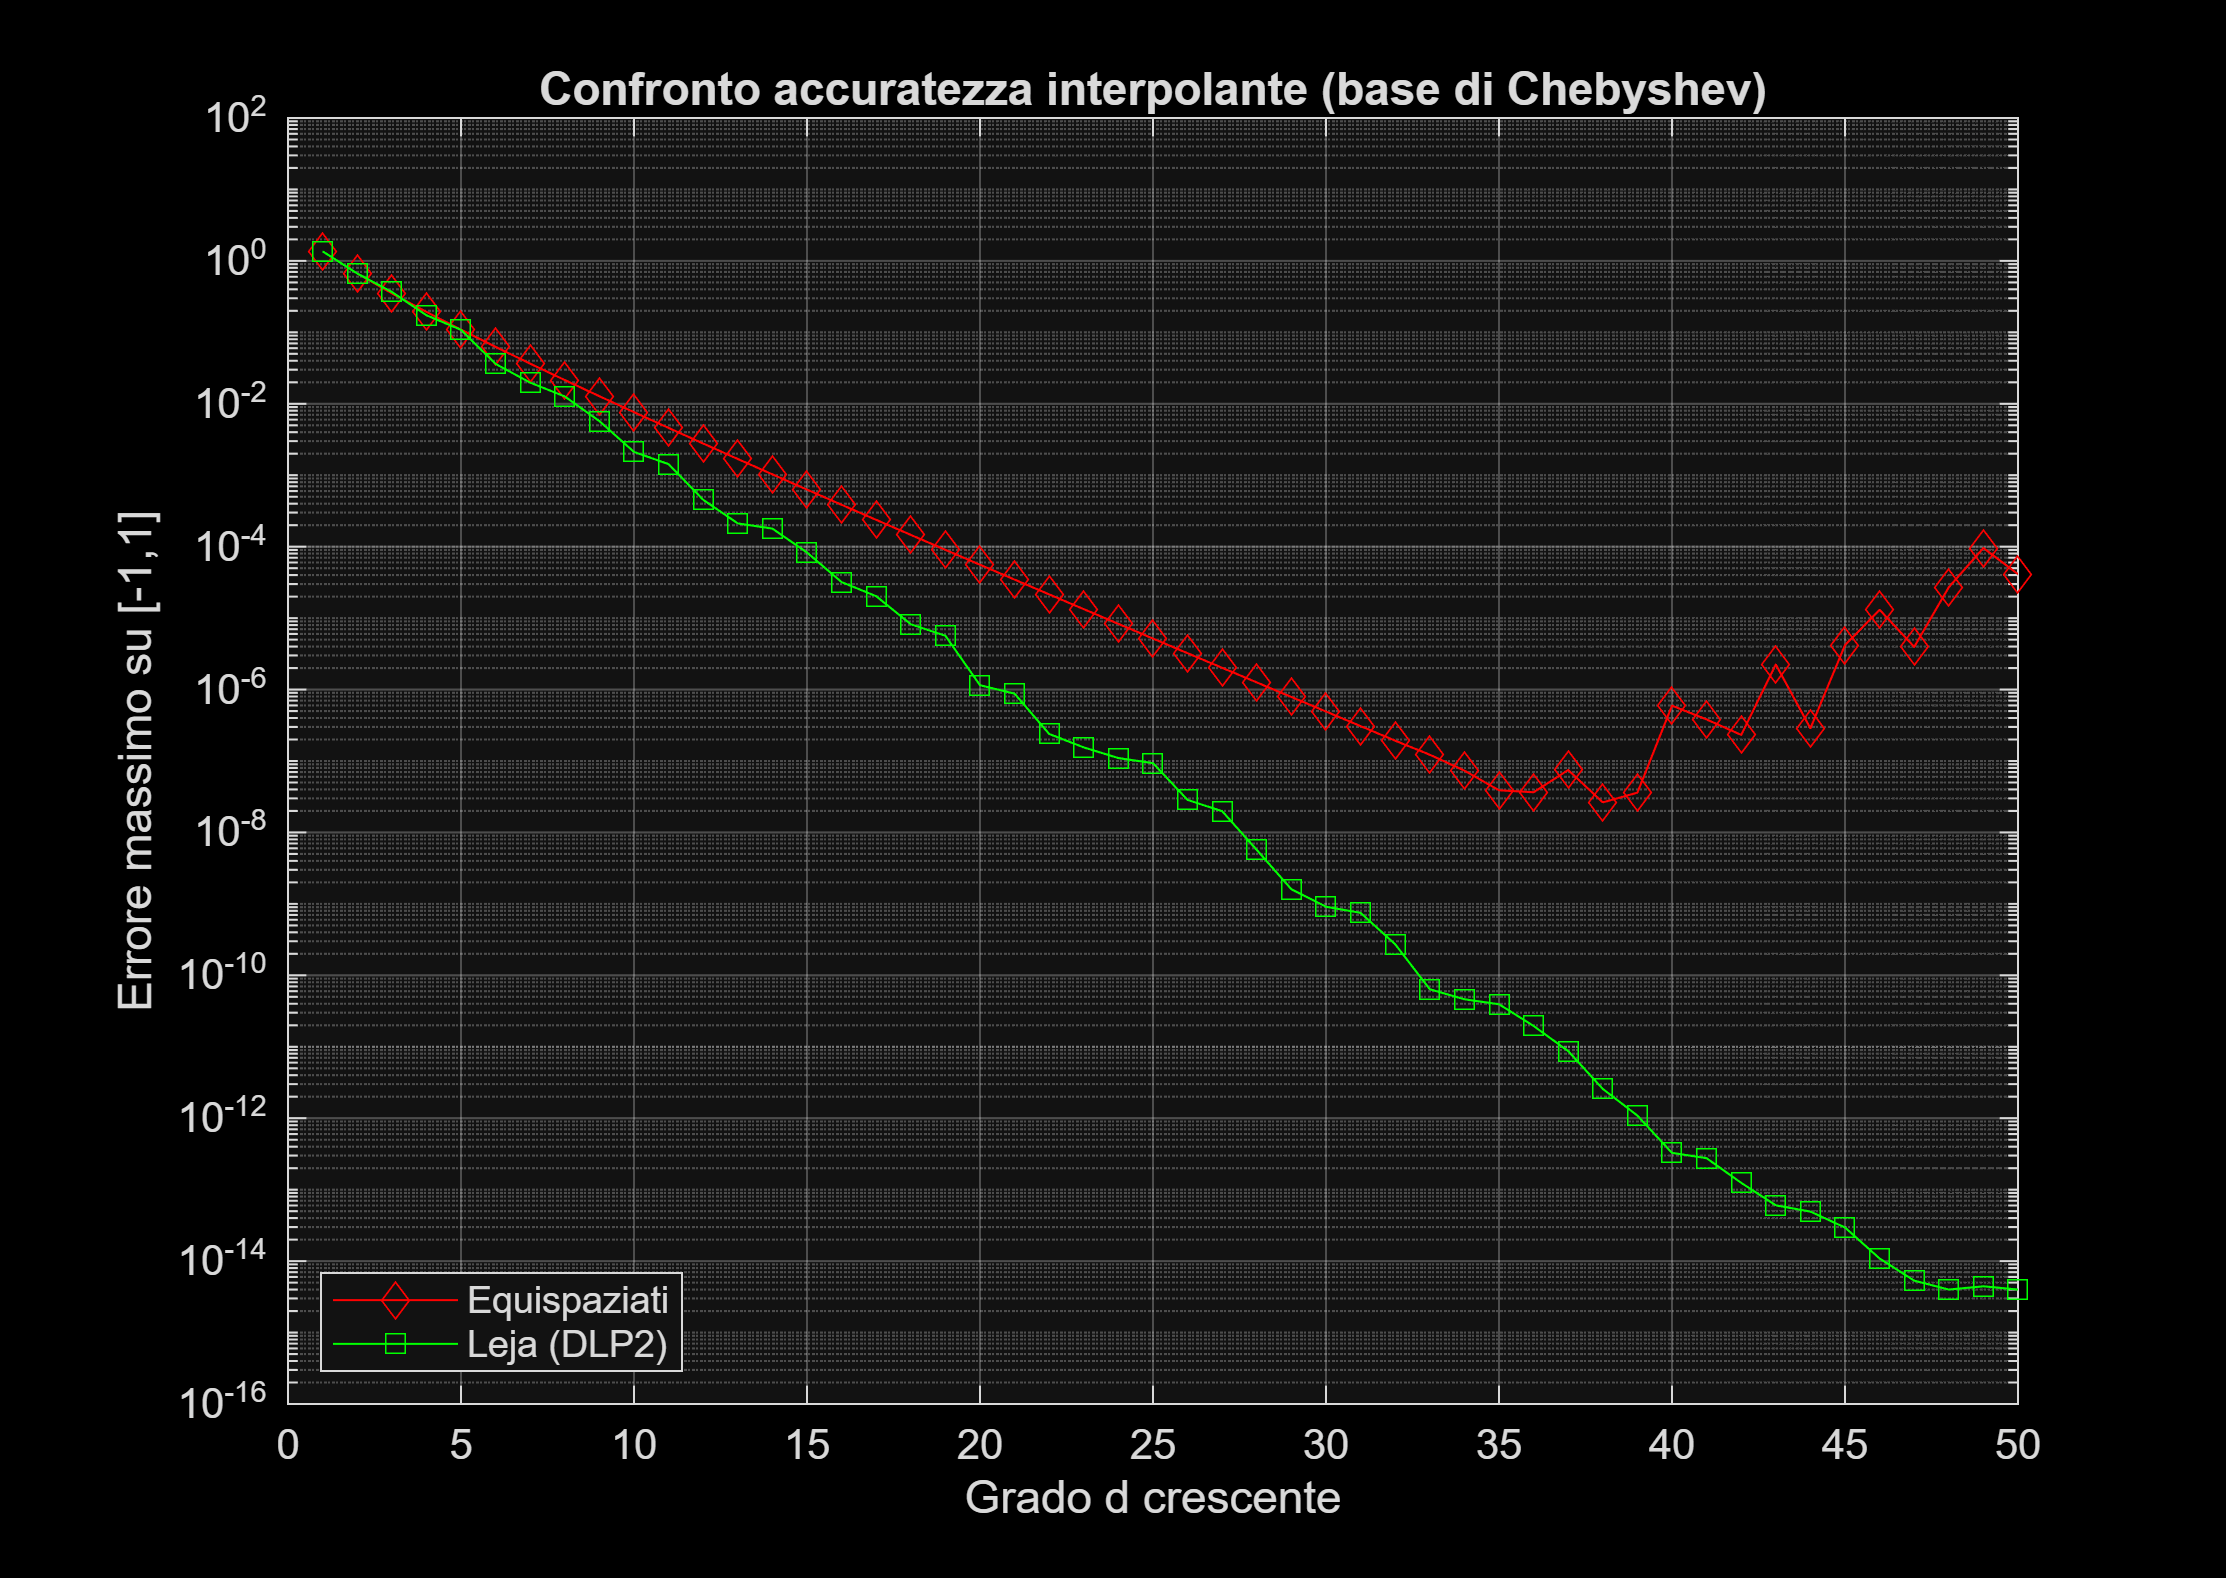
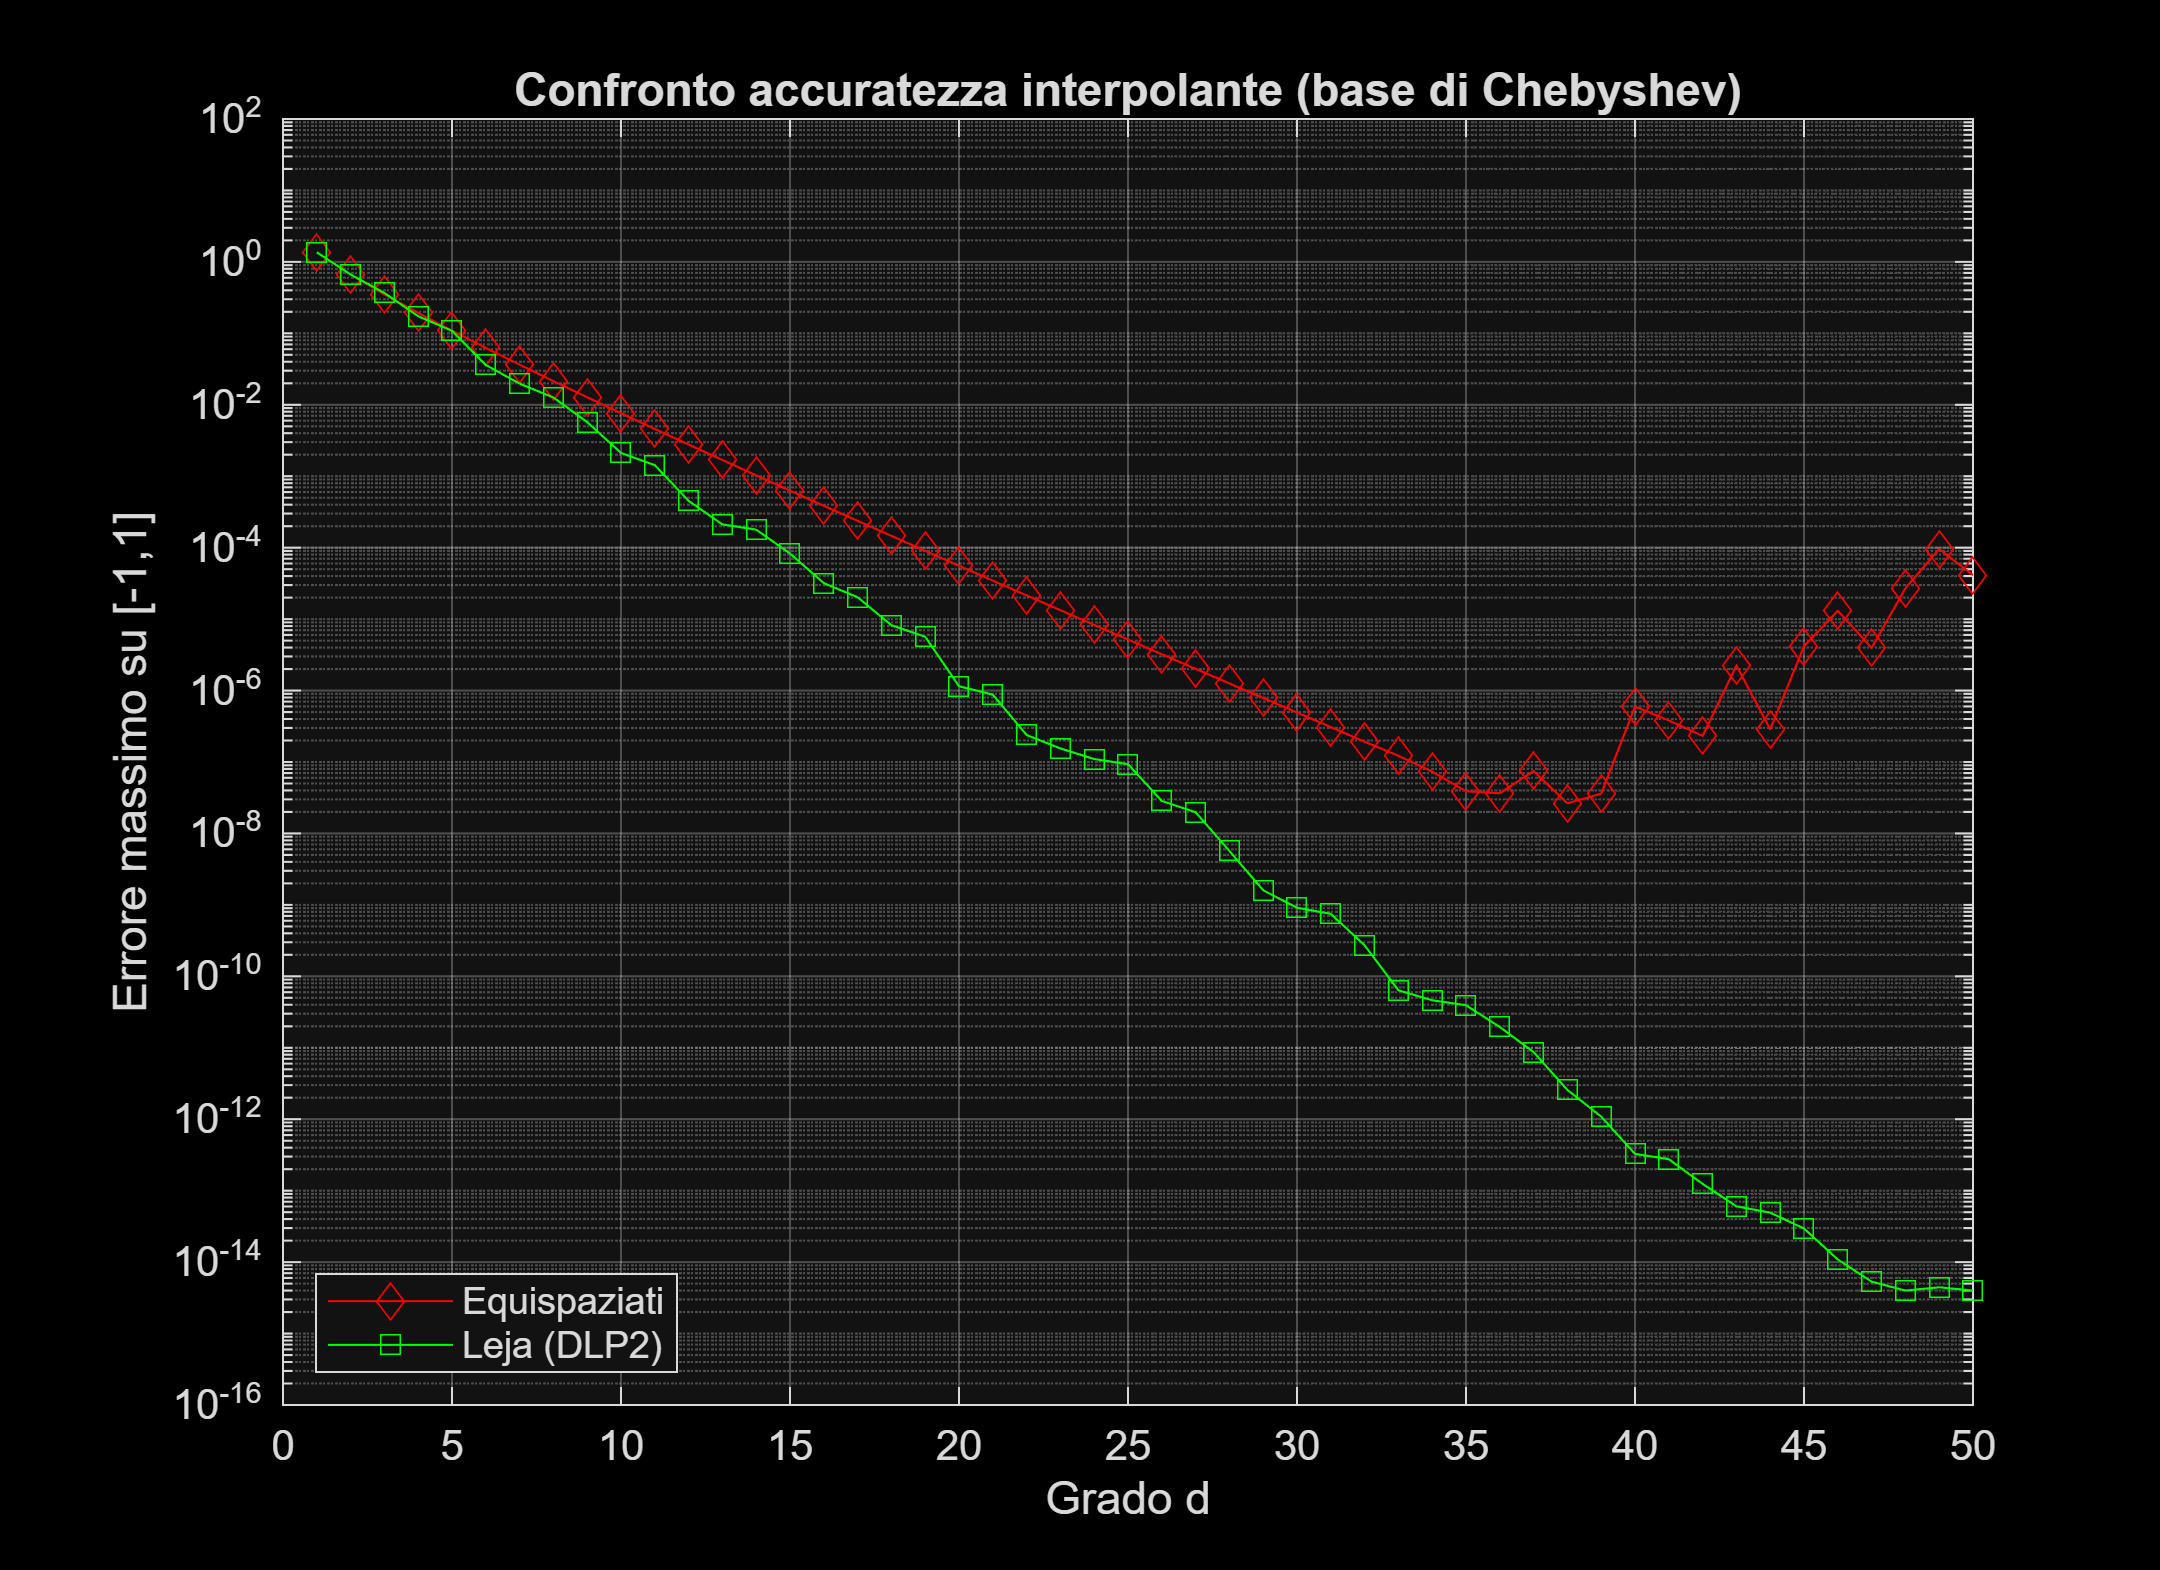
Aggiornamento immagini e main

Changed region(s): [[0.031, 0.0312, 0.9306, 0.9675], [0.8995, 0.9051, 0.9306, 0.9363]]

diff --git a/doc/divisione lavoro/main.m b/doc/divisione lavoro/main.m
@@ -88,7 +88,7 @@ mentre quello con i nodi di Leja (err_leja) dovrebbe diminuire stabilmente fino 
 figure;
 plot(1:deg_max, times2, 's-', 'Color', 'g', 'DisplayName', 'DLP2 (LU Chebyshev)'); hold on; 
 plot(1:deg_max, times1, 'o-', 'Color', 'm', 'DisplayName', 'DLP (Produttoria)');% grafico dei tempi
-xlabel('Grado d crescente'); ylabel('Tempo [s]'); 
+xlabel('Grado d'); ylabel('Tempo [s]'); 
 grid on; 
 title(sprintf('Tempi computazionali (Mmesh=%d)', Mmesh));
 legend('Location','northwest');
@@ -98,7 +98,7 @@ figure;
 semilogy(1:deg_max, Leb2, 's-', 'Color', 'g', 'DisplayName', 'Leja (DLP2)'); hold on; % costante di Lebesgue in scala semilogaritmica
 semilogy(1:deg_max, Leb1, 'o-', 'Color', 'm', 'DisplayName', 'Leja (DLP)');
 grid on;
-xlabel('Grado d crescente'); ylabel('Costante di Lebesgue (semilog)');
+xlabel('Grado d'); ylabel('Costante di Lebesgue (semilog)');
 title('Costante di Lebesgue per i punti di Leja approssimati');
 legend('Location','northwest');
 %exportgraphics(gcf, fullfile(imgDir,'lebesgue.png'), 'Resolution', 300);
@@ -109,7 +109,7 @@ semilogy(1:deg_max, err_leja, 's-', 'Color', 'g', 'DisplayName', 'Leja (DLP2)');
 % Il testo del progetto dice di usare l'algoritmo per i nodi di Leja più efficiente. 
 % DLP è più efficiente in termini di tempo di calcolo ma DLP2 è più stabile anche se più lento.
 grid on;
-xlabel('Grado d crescente'); ylabel('Errore massimo su [-1,1]');
+xlabel('Grado d'); ylabel('Errore massimo su [-1,1]');
 title('Confronto accuratezza interpolante (base di Chebyshev)');
 legend('Location','southwest');
 %exportgraphics(gcf, fullfile(imgDir,'errori.png'), 'Resolution', 300);

diff --git a/src/main.m b/src/main.m
@@ -68,7 +68,7 @@ end
 figure;
 plot(1:deg_max, tempi2, 's-', 'Color', 'g', 'DisplayName', 'DLP2 (LU Chebyshev)'); hold on; 
 plot(1:deg_max, tempi1, 'o-', 'Color', 'm', 'DisplayName', 'DLP (Produttoria)');
-xlabel('Grado d crescente'); ylabel('Tempo [s]'); 
+xlabel('Grado d'); ylabel('Tempo [s]'); 
 grid on; 
 title(sprintf('Tempi computazionali (Mmesh=%d)', Mmesh));
 legend('Location','northwest');
@@ -78,7 +78,7 @@ figure;
 semilogy(1:deg_max, Leb2, 's-', 'Color', 'g', 'DisplayName', 'Leja (DLP2)'); hold on; 
 semilogy(1:deg_max, Leb1, 'o-', 'Color', 'm', 'DisplayName', 'Leja (DLP)');
 grid on;
-xlabel('Grado d crescente'); ylabel('Costante di Lebesgue (semilog)');
+xlabel('Grado d'); ylabel('Costante di Lebesgue (semilog)');
 title('Costante di Lebesgue per i punti di Leja approssimati');
 legend('Location','northwest');
 %exportgraphics(gcf, fullfile(imgDir,'lebesgue.png'), 'Resolution', 300);
@@ -87,7 +87,7 @@ figure;
 semilogy(1:deg_max, err_equi, 'd-', 'Color', 'r', 'DisplayName', 'Equispaziati'); hold on; 
 semilogy(1:deg_max, err_leja, 's-', 'Color', 'g', 'DisplayName', 'Leja (DLP2)'); 
 grid on;
-xlabel('Grado d crescente'); ylabel('Errore massimo su [-1,1]');
+xlabel('Grado d'); ylabel('Errore massimo su [-1,1]');
 title('Confronto accuratezza interpolante (base di Chebyshev)');
 legend('Location','southwest');
 %exportgraphics(gcf, fullfile(imgDir,'errori.png'), 'Resolution', 300);

diff --git a/doc/divisione lavoro/DLP.m b/doc/divisione lavoro/DLP.m
@@ -40,7 +40,8 @@ for s = 2:d+1 %qua si parte da 2 perchè in matlab i cicli for partono da 1 e no
     [~, idx] = max(prodvals);  % Trova l'indice del valore massimo
     dlp(s) = x(idx);           % Salva il nuovo punto di Leja
     available(idx) = false;    % Marca l'indice come usato
-endend
+end
+end
 
 %{ 
 Esempio Pratico (Traccia del Loop)
